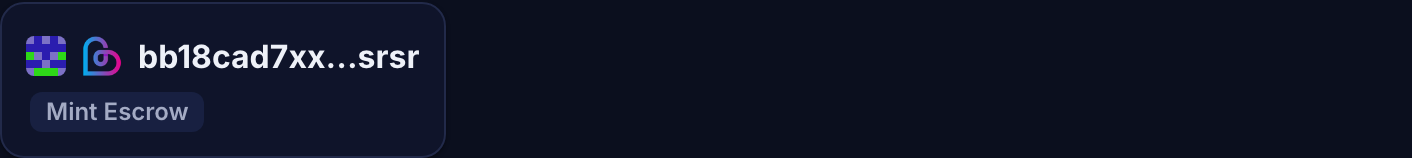
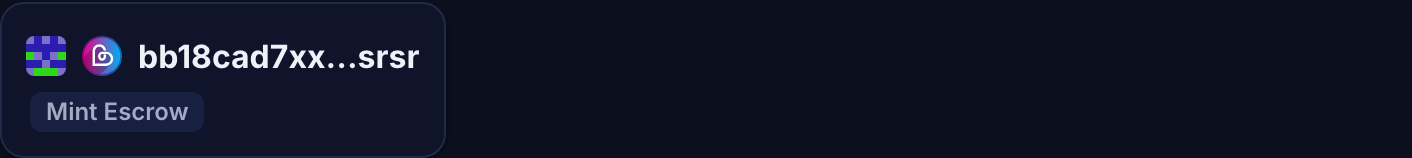
fix(site): widgets use the site's circular BitBadges mark, not the frontend PNG

Changed region(s): [[0.0312, 0.2278, 0.0935, 0.481]]

diff --git a/site/tests/widgets.test.ts b/site/tests/widgets.test.ts
@@ -54,7 +54,7 @@ describe('widget registry', () => {
 
   test('address chips use the frontend logo files, the circular BitBadges mark for bb1 addresses', () => {
     const bb = renderStatic(createWidgetElement('address', { address: ALICE }));
-    expect(bb).toMatch(/<img src="\/widgets\/bitbadges-logo\.png"[^>]*data-site-asset/);
+    expect(bb).toMatch(/<img src="\/widgets\/bitbadges-logo\.svg"[^>]*data-site-asset/);
     const eth = renderStatic(createWidgetElement('address', { address: '0x0bc63cfe31d5218eb414b142c799e20964a54a1a' }));
     expect(eth).toContain('src="/widgets/eth-logo.webp"');
     const sol = renderStatic(createWidgetElement('address', { address: '4Nd1mBQtrMJVYVfKf2PJy9NZUZdTAsp7D4xWLs4gDB4T', chain: 'Solana' }));
@@ -70,7 +70,7 @@ describe('widget registry', () => {
     expect(html).toContain('src="/widgets/cosmos-logo.webp"');
     expect(html).toContain('src="/widgets/usdc.webp"');
     const badge = renderStatic(createWidgetElement('swap', { from: { symbol: 'BADGE', amount: '5' }, to: { symbol: 'BTC', amount: '1' } }));
-    expect(badge).toContain('src="/widgets/bitbadges-logo.png"');
+    expect(badge).toContain('src="/widgets/bitbadges-logo.svg"');
     expect(badge).toContain('src="/widgets/bitcoin-logo.webp"');
   });
 
@@ -136,7 +136,7 @@ describe('::widget directive', () => {
 
   test('widget logos keep their site path: the asset rewrite does not move them under docs-assets', async () => {
     const doc = await renderDoc(`# T\n\n::widget{name="address" address="${ALICE}"}`, opts);
-    expect(doc.html).toContain('src="/widgets/bitbadges-logo.png"');
+    expect(doc.html).toContain('src="/widgets/bitbadges-logo.svg"');
     expect(doc.html).not.toContain('/docs-assets/widgets/');
   });
 

diff --git a/site/src/components/widgets/shared.tsx b/site/src/components/widgets/shared.tsx
@@ -143,11 +143,11 @@ export function Icon({ name, className, size = 16 }: { name: IconName; className
 /**
  * The frontend's logo files, copied as-is from `bitbadges-frontend/public/images`
  * into `site/public/widgets/` (`getChainLogo` and the `*_LOGO` constants in
- * `src/constants.tsx`). `bitbadges-logo.png` is `bitbadgeslogonotext.png`, the
+ * `src/constants.tsx`). `bitbadges-logo.svg` is the site's own circular mark, the
  * circular mark, downscaled to 64px.
  */
 export const CHAIN_LOGOS: Record<Chain, string> = {
-  BitBadges: 'bitbadges-logo.png',
+  BitBadges: 'bitbadges-logo.svg',
   Ethereum: 'eth-logo.webp',
   Solana: 'solana-logo.webp',
   Bitcoin: 'bitcoin-logo.webp',

diff --git a/_docs/architecture.md b/_docs/architecture.md
@@ -261,8 +261,8 @@ width through `className`; it never paints its own outer surface.
 Logos. Chain and token marks are the frontend's own image files, copied
 unchanged from `bitbadges-frontend/public/images` into `site/public/widgets/`
 (`eth-logo.webp`, `solana-logo.webp`, `bitcoin-logo.webp`, `cosmos-logo.webp`
-for ATOM, `usdc.webp`), plus `bitbadges-logo.png`, the circular
-`bitbadgeslogonotext.png` downscaled to 64px for the address chip. The map is
+for ATOM, `usdc.webp`), plus `bitbadges-logo.svg`, the same circular
+mark the top bar uses (`site/public/bitbadges-logo.svg`), never the frontend's older PNG marks. The map is
 `CHAIN_LOGOS` / `TOKEN_LOGOS` in `shared.tsx`; nothing is hand-drawn. The
 `<img>` carries `data-site-asset`, which tells the asset rewrite in
 `markdown.ts` to leave the `src` alone (it is already `basePath`-prefixed and
